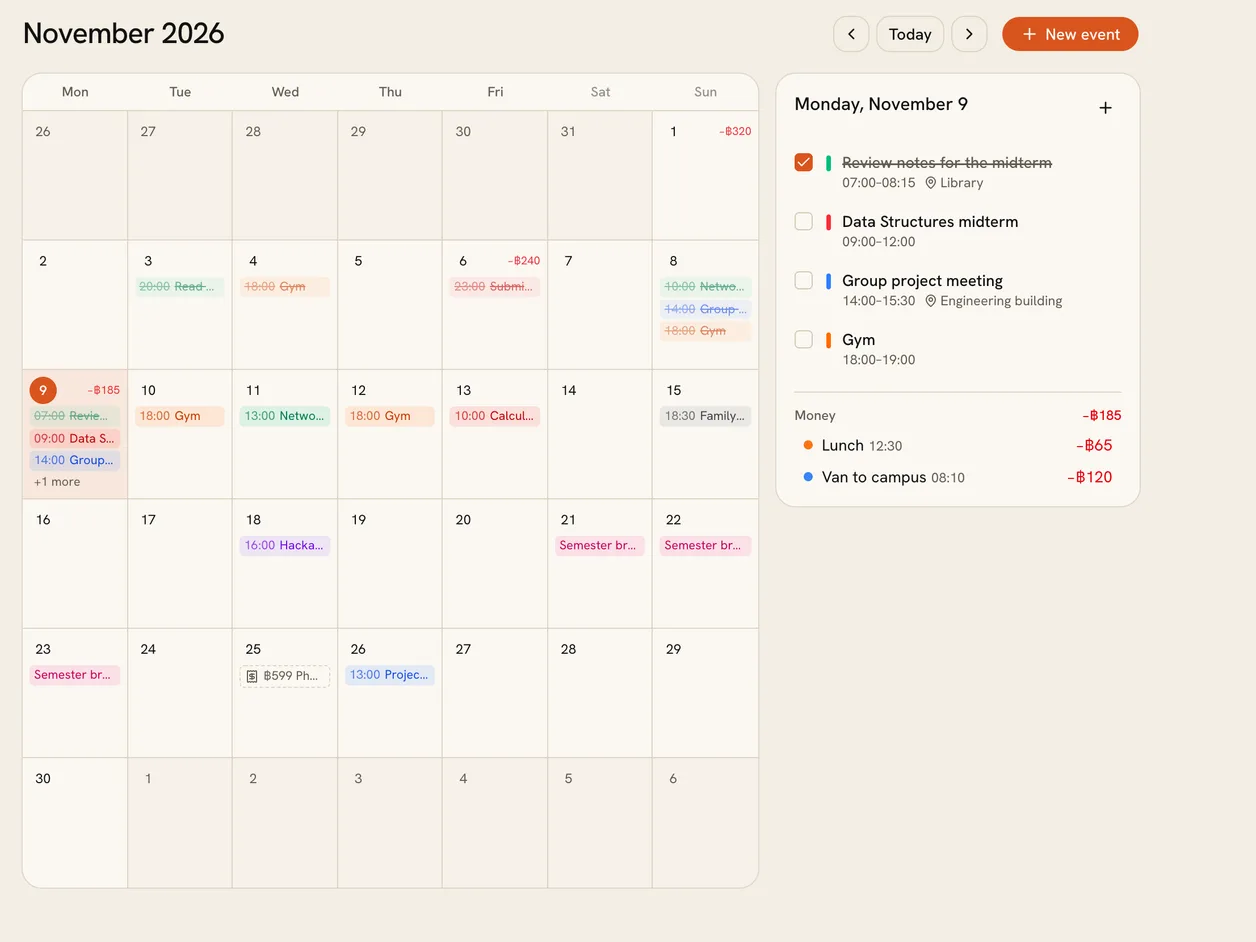
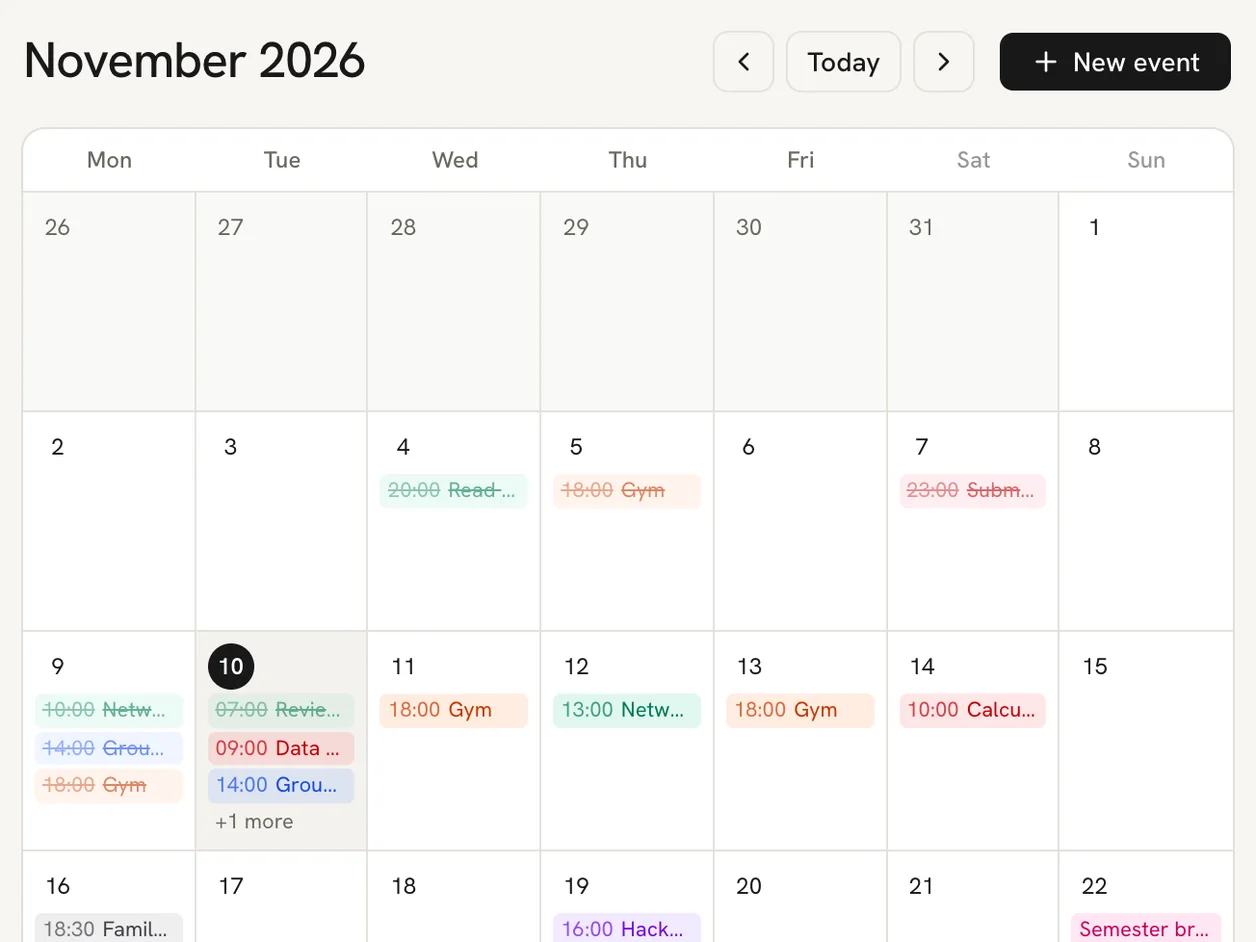
Portfolio: cool paper palette and fresh app screenshots in the new theme

diff --git a/public/portfolio/th.html b/public/portfolio/th.html
@@ -17,7 +17,7 @@
 <meta name="twitter:image" content="https://my-website.komolbunrueang.workers.dev/portfolio/share-th.jpg">
 <link rel="icon" href="/icon.png" type="image/png">
 <link rel="apple-touch-icon" href="/apple-icon.png">
-<meta name="theme-color" content="#f3eee3">
+<meta name="theme-color" content="#f7f6f2">
 <!-- <link rel="canonical" href="https://[own domain, not bought yet]/"> -->
 <link rel="alternate" hreflang="en" href="/">
 <meta name="site-kind" content="other">
@@ -33,9 +33,9 @@
 <link rel="stylesheet" href="/assets/icons/icon.css">
 <style>
 :root {
-  --p-bg: #f3eee3; --p-surface: #e6e1d7; --p-ink: #111111; --p-muted: #64625e;
+  --p-bg: #f7f6f2; --p-surface: #eceae3; --p-ink: #191919; --p-muted: #6b685f;
   --p-accent: #d9541e; --p-accent-ink: #ffffff; --p-action: #d9541e; --p-action-ink: #ffffff;
-  --p-inv-bg: #111111; --p-inv-surface: #1d1d1d; --p-inv-ink: #f3eee3; --p-inv-muted: #94918b;
+  --p-inv-bg: #191919; --p-inv-surface: #242321; --p-inv-ink: #f7f6f2; --p-inv-muted: #94918b;
   --p-inv-accent: #d9541e; --p-inv-accent-ink: #ffffff; --p-inv-action: #d9541e; --p-inv-action-ink: #ffffff;
   --font-display: "Hanken Grotesk", "Anuphan", system-ui, sans-serif;
   --font-text: "Hanken Grotesk", "Anuphan", system-ui, sans-serif;
@@ -62,7 +62,7 @@
   .hero__media.mesa { position: relative; overflow: visible; background: none; }
   .mesa__block { position: absolute; inset: 0; background: var(--p-accent); border-radius: var(--r-lg); }
   .mesa__shot { position: relative; width: calc(100% - 32px); height: calc(100% - 32px); object-fit: cover; object-position: 50% 0; border-radius: var(--r-lg); box-shadow: 0 0 0 1px color-mix(in oklab, var(--ink) 10%, transparent); }
-  .today-card { position: absolute; left: 16px; bottom: 56px; width: min(320px, 78%); padding: 16px 18px; background: #fffdf8; border-radius: var(--r-md);
+  .today-card { position: absolute; left: 16px; bottom: 56px; width: min(320px, 78%); padding: 16px 18px; background: #ffffff; border-radius: var(--r-md);
     box-shadow: 0 1px 0 color-mix(in oklab, var(--ink) 10%, transparent), 0 12px 32px -12px color-mix(in oklab, var(--ink) 30%, transparent); font-size: 14px; }
   .today-card__head { display: flex; justify-content: space-between; margin-bottom: 10px; font-weight: 500; }
   .today-card__head span:last-child { color: var(--muted); font-weight: 400; }
@@ -95,7 +95,7 @@
 <body>
 <!-- type: service
      deal: hero split, nav nav-mega, close close-type, footer footer-columns, rhythm dark-band, buttons pill (owner's reference), mark wordmark, grounds none
-     palette from the owner: cream #F3EEE3, ink #111111, burnt orange #D9541E (start.mjs brand), type hanken + Instrument Serif accent
+     palette from the owner: cream #F3EEE3, ink #191919, burnt orange #D9541E (start.mjs brand), type hanken + Instrument Serif accent
      moments: word-highlight in #why -->
 <header class="nav">
   <div class="wrap nav__bar">
@@ -150,13 +150,13 @@
       </div>
       <div class="hero__media mesa span-6 start-7">
         <span class="mesa__block" aria-hidden="true"></span>
-        <img class="mesa__shot" src="/portfolio/img/jameswebpupu-today.webp" alt="หน้า Today ของ jameswebpupu มีวิชาเรียน ประชุม และเวลาเข้ายิมของวันนี้" fetchpriority="high" width="1256" height="1432" data-source="client" data-subject="jameswebpupu, the owner's planner app">
+        <img class="mesa__shot" src="/portfolio/img/jameswebpupu-today.webp" alt="หน้า Today ของ jameswebpupu มีวิชาเรียน ประชุม และเวลาเข้ายิมของวันนี้" fetchpriority="high" width="1256" height="1666" data-source="client" data-subject="jameswebpupu, the owner's planner app">
         <div class="today-card" role="img" aria-label="รายการวันนี้จาก jameswebpupu">
-          <div class="today-card__head"><span>วันนี้ใน jameswebpupu</span><span>จ. 9 พ.ย.</span></div>
+          <div class="today-card__head"><span>วันนี้ใน jameswebpupu</span><span>อ. 10 พ.ย.</span></div>
           <ul>
-              <li><span class="tick"><svg viewBox="0 0 10 10" aria-hidden="true"><path d="M2 5.2 4.1 7.2 8 3" fill="none" stroke="#f3eee3" stroke-width="1.6" stroke-linecap="round" stroke-linejoin="round"/></svg></span><span>ทบทวนก่อนสอบมิดเทอม</span><time>07:00</time></li>
-              <li><span class="tick"><svg viewBox="0 0 10 10" aria-hidden="true"><path d="M2 5.2 4.1 7.2 8 3" fill="none" stroke="#f3eee3" stroke-width="1.6" stroke-linecap="round" stroke-linejoin="round"/></svg></span><span>สอบ Data Structures</span><time>09:00</time></li>
-              <li><span class="tick"><svg viewBox="0 0 10 10" aria-hidden="true"><path d="M2 5.2 4.1 7.2 8 3" fill="none" stroke="#f3eee3" stroke-width="1.6" stroke-linecap="round" stroke-linejoin="round"/></svg></span><span>ประชุมงานกลุ่ม</span><time>14:00</time></li>
+              <li><span class="tick"><svg viewBox="0 0 10 10" aria-hidden="true"><path d="M2 5.2 4.1 7.2 8 3" fill="none" stroke="#f7f6f2" stroke-width="1.6" stroke-linecap="round" stroke-linejoin="round"/></svg></span><span>ทบทวนก่อนสอบมิดเทอม</span><time>07:00</time></li>
+              <li><span class="tick"><svg viewBox="0 0 10 10" aria-hidden="true"><path d="M2 5.2 4.1 7.2 8 3" fill="none" stroke="#f7f6f2" stroke-width="1.6" stroke-linecap="round" stroke-linejoin="round"/></svg></span><span>สอบ Data Structures</span><time>09:00</time></li>
+              <li><span class="tick"><svg viewBox="0 0 10 10" aria-hidden="true"><path d="M2 5.2 4.1 7.2 8 3" fill="none" stroke="#f7f6f2" stroke-width="1.6" stroke-linecap="round" stroke-linejoin="round"/></svg></span><span>ประชุมงานกลุ่ม</span><time>14:00</time></li>
               <li class="is-next"><span class="tick tick--next"></span><span>เข้ายิม</span><time>ถัดไป</time></li>
           </ul>
         </div>

diff --git a/public/portfolio/index.html b/public/portfolio/index.html
@@ -17,7 +17,7 @@
 <meta name="twitter:image" content="https://my-website.komolbunrueang.workers.dev/portfolio/share-en.jpg">
 <link rel="icon" href="/icon.png" type="image/png">
 <link rel="apple-touch-icon" href="/apple-icon.png">
-<meta name="theme-color" content="#f3eee3">
+<meta name="theme-color" content="#f7f6f2">
 <!-- <link rel="canonical" href="https://[own domain, not bought yet]/"> -->
 <link rel="alternate" hreflang="th" href="/th">
 <meta name="site-kind" content="other">
@@ -33,9 +33,9 @@
 <link rel="stylesheet" href="/assets/icons/icon.css">
 <style>
 :root {
-  --p-bg: #f3eee3; --p-surface: #e6e1d7; --p-ink: #111111; --p-muted: #64625e;
+  --p-bg: #f7f6f2; --p-surface: #eceae3; --p-ink: #191919; --p-muted: #6b685f;
   --p-accent: #d9541e; --p-accent-ink: #ffffff; --p-action: #d9541e; --p-action-ink: #ffffff;
-  --p-inv-bg: #111111; --p-inv-surface: #1d1d1d; --p-inv-ink: #f3eee3; --p-inv-muted: #94918b;
+  --p-inv-bg: #191919; --p-inv-surface: #242321; --p-inv-ink: #f7f6f2; --p-inv-muted: #94918b;
   --p-inv-accent: #d9541e; --p-inv-accent-ink: #ffffff; --p-inv-action: #d9541e; --p-inv-action-ink: #ffffff;
   --font-display: "Hanken Grotesk", system-ui, sans-serif;
   --font-text: "Hanken Grotesk", system-ui, sans-serif;
@@ -62,7 +62,7 @@
   .hero__media.mesa { position: relative; overflow: visible; background: none; }
   .mesa__block { position: absolute; inset: 0; background: var(--p-accent); border-radius: var(--r-lg); }
   .mesa__shot { position: relative; width: calc(100% - 32px); height: calc(100% - 32px); object-fit: cover; object-position: 50% 0; border-radius: var(--r-lg); box-shadow: 0 0 0 1px color-mix(in oklab, var(--ink) 10%, transparent); }
-  .today-card { position: absolute; left: 16px; bottom: 56px; width: min(320px, 78%); padding: 16px 18px; background: #fffdf8; border-radius: var(--r-md);
+  .today-card { position: absolute; left: 16px; bottom: 56px; width: min(320px, 78%); padding: 16px 18px; background: #ffffff; border-radius: var(--r-md);
     box-shadow: 0 1px 0 color-mix(in oklab, var(--ink) 10%, transparent), 0 12px 32px -12px color-mix(in oklab, var(--ink) 30%, transparent); font-size: 14px; }
   .today-card__head { display: flex; justify-content: space-between; margin-bottom: 10px; font-weight: 500; }
   .today-card__head span:last-child { color: var(--muted); font-weight: 400; }
@@ -95,7 +95,7 @@
 <body>
 <!-- type: service
      deal: hero split, nav nav-mega, close close-type, footer footer-columns, rhythm dark-band, buttons pill (owner's reference), mark wordmark, grounds none
-     palette from the owner: cream #F3EEE3, ink #111111, burnt orange #D9541E (start.mjs brand), type hanken + Instrument Serif accent
+     palette from the owner: cream #F3EEE3, ink #191919, burnt orange #D9541E (start.mjs brand), type hanken + Instrument Serif accent
      moments: word-highlight in #why -->
 <header class="nav">
   <div class="wrap nav__bar">
@@ -150,13 +150,13 @@
       </div>
       <div class="hero__media mesa span-6 start-7">
         <span class="mesa__block" aria-hidden="true"></span>
-        <img class="mesa__shot" src="/portfolio/img/jameswebpupu-today.webp" alt="The Today page of jameswebpupu with today's classes, a meeting and the gym" fetchpriority="high" width="1256" height="1432" data-source="client" data-subject="jameswebpupu, the owner's planner app">
+        <img class="mesa__shot" src="/portfolio/img/jameswebpupu-today.webp" alt="The Today page of jameswebpupu with today's classes, a meeting and the gym" fetchpriority="high" width="1256" height="1666" data-source="client" data-subject="jameswebpupu, the owner's planner app">
         <div class="today-card" role="img" aria-label="Today's list from jameswebpupu">
-          <div class="today-card__head"><span>Today in jameswebpupu</span><span>Mon 9 Nov</span></div>
+          <div class="today-card__head"><span>Today in jameswebpupu</span><span>Tue 10 Nov</span></div>
           <ul>
-              <li><span class="tick"><svg viewBox="0 0 10 10" aria-hidden="true"><path d="M2 5.2 4.1 7.2 8 3" fill="none" stroke="#f3eee3" stroke-width="1.6" stroke-linecap="round" stroke-linejoin="round"/></svg></span><span>Review notes for the midterm</span><time>07:00</time></li>
-              <li><span class="tick"><svg viewBox="0 0 10 10" aria-hidden="true"><path d="M2 5.2 4.1 7.2 8 3" fill="none" stroke="#f3eee3" stroke-width="1.6" stroke-linecap="round" stroke-linejoin="round"/></svg></span><span>Data Structures midterm</span><time>09:00</time></li>
-              <li><span class="tick"><svg viewBox="0 0 10 10" aria-hidden="true"><path d="M2 5.2 4.1 7.2 8 3" fill="none" stroke="#f3eee3" stroke-width="1.6" stroke-linecap="round" stroke-linejoin="round"/></svg></span><span>Group project meeting</span><time>14:00</time></li>
+              <li><span class="tick"><svg viewBox="0 0 10 10" aria-hidden="true"><path d="M2 5.2 4.1 7.2 8 3" fill="none" stroke="#f7f6f2" stroke-width="1.6" stroke-linecap="round" stroke-linejoin="round"/></svg></span><span>Review notes for the midterm</span><time>07:00</time></li>
+              <li><span class="tick"><svg viewBox="0 0 10 10" aria-hidden="true"><path d="M2 5.2 4.1 7.2 8 3" fill="none" stroke="#f7f6f2" stroke-width="1.6" stroke-linecap="round" stroke-linejoin="round"/></svg></span><span>Data Structures midterm</span><time>09:00</time></li>
+              <li><span class="tick"><svg viewBox="0 0 10 10" aria-hidden="true"><path d="M2 5.2 4.1 7.2 8 3" fill="none" stroke="#f7f6f2" stroke-width="1.6" stroke-linecap="round" stroke-linejoin="round"/></svg></span><span>Group project meeting</span><time>14:00</time></li>
               <li class="is-next"><span class="tick tick--next"></span><span>Gym</span><time>Next</time></li>
           </ul>
         </div>
